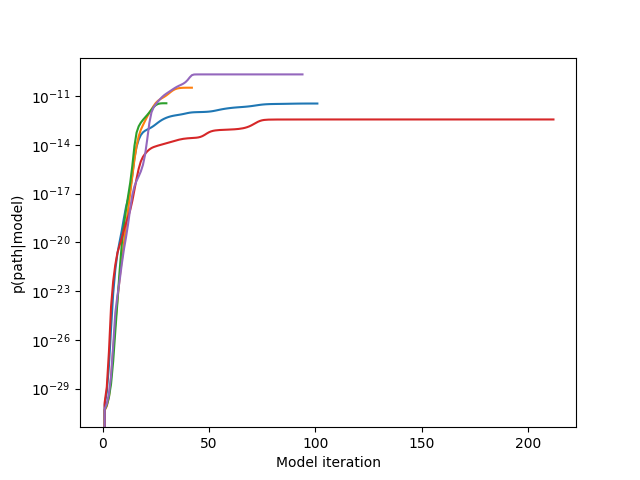
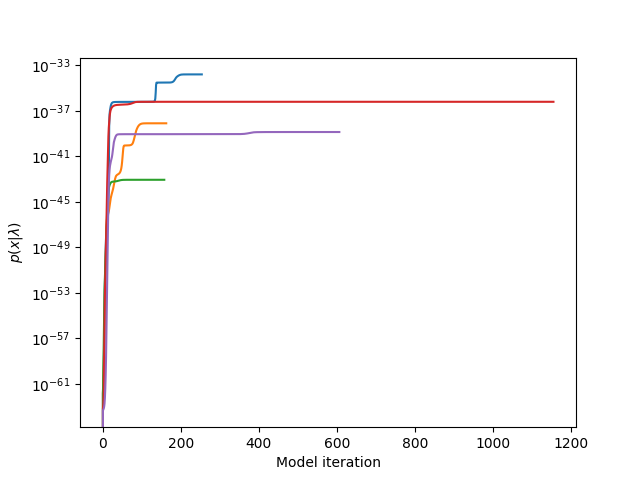
Finisedish EM draft, which includes new graphs

diff --git a/Report/Q1.tex b/Report/Q1.tex
@@ -1,66 +1,72 @@
 \subsection{}
-All data was collected from runs on a Hamilton par7.q node.
-
-Figure [Fig.\ref{fig:scaling}] shows the scaling characteristics of step 4 in terms of the number of bodies. 
-We see from [Fig.\ref{fig:scaling_sub}] that scenarios with over 1000 bodies scale well to Hamilton's 24 cores, whereas models using $<$1000 bodies scale less well. 
-If we assume this is a strong scaling model, following $t(p) = f \cdot t(1) + (1-f)\cdot \frac{t(1)}{p}$, we can calculate constant $f$ for each data point [Fig.\ref{fig:scaling_f}]. We can see scenarios with $>=500$ bodies are modeled well by the strong scaling model as there is a low variance of $f$ estimations, giving evidence that $f$ is a constant. 
-However, the strong scaling model breaks down under $500$ bodies as $f$ is likely not constant. 
-I suspect this breakdown is caused by the overhead for OMP to create and synchronize threads. 
-This overhead is likely a function of the number of threads and could explain the speedup then slowdown for $200$ bodies.
-We also see that $f$ decreases with more bodies. In my implementation some of the calculations with runtime $O(n)$ are done in series (where $n$ is number of bodies); However, all calculations with runtime $O(n^2)$ are done in parallel. Hence we would expect f to decrease as $O(n^2)$ dominates.
 
 \subsection{}
-The EM algorithm iterativley improves a model to fit a sequence of observed states. For a model $\lambda$ and observed sequence $x$ we seek to maximise $p(x|\lambda)$. Model $\lambda = (\pi, m, e)$ where: $\pi$ are the initial probabilities, $m$ are the transition probabilities, and $e$ are the emission probabilities.
+A hidden markov model can be defined as $\lambda = (\pi, m, e)$ where: $\pi$ are the initial probabilities, $m$ are the transition probabilities, and $e$ are the emission probabilities.
+The goal of the Expectation Maximisation algorithm is to calculate a value of $\lambda$ that maximises $p(x|\lambda)$ for a given sequence of observed data $x$. As finding a global maximum is computationally intractable we use the Baum-Welch algorithm which gives us a local maximum. The Baum-Welch algorithm generates $\hat{\lambda}$ from $\lambda$ where $p(x|\hat{\lambda}) \geq p(x|\lambda)$. Iterating this process, where at each step we say $\lambda \gets \hat{\lambda}$, converges to a local optimum.
 
-To calculate $\hat{\lambda}$ we can use some helper functions. $\alpha$ is the forward algorithm.
-\begin{gather}
+To calculate $\hat{\lambda}$ we can use some helper functions as described by L.R. Rabiner \cite{em}. We will use additional notation $N$ ass the number of hidden states, $O_t$ the observation at time (position) $t$ and $T$ as $|O|$.  The first helper function is $\alpha$, which is the forward algorithm.
+\begin{gather*}
     \alpha_1(i) = \pi_i e_i(O_1)\\
-    \alpha_{t+1}(i) = e_j(O_{t+1}) \cdot \sum_{i=1}^N\alpha_t(i)m_{ij} \\
-\end{gather}
+    \alpha_{t+1}(i) = e_j(O_{t+1}) \cdot \sum_{i=1}^N\alpha_t(i)m_{ij}
+\end{gather*}
 
-$\beta$ is the backward algorithm
-\begin{gather}
+The next $\beta$, which is the backward algorithm :
+\begin{gather*}
     \beta_T(i)=1\\
-    \beta_t(i)=\sum_{j=1}^N m_{ij} e_j(O_{t+1}) \beta_{t+1}(j)\\
-\end{gather}
+    \beta_t(i)=\sum_{j=1}^N m_{ij} e_j(O_{t+1}) \beta_{t+1}(j)
+\end{gather*}
 
-$\gamma$ is the probability of being in a state given that we know the hole sequence.
-\begin{gather}
-    \gamma_t(i) = \frac{\alpha_t(i) \beta_t(i)}{\sum_{j=1}^N \alpha_t(j) \beta_t(j)}\\
-\end{gather}
+Then $\gamma$ which is the probability of being in a state at a point in time, given we know which observations precede and succeed the current observation.
+\begin{gather*}
+    \gamma_t(i) = \frac{\alpha_t(i) \beta_t(i)}{\sum_{j=1}^N \alpha_t(j) \beta_t(j)}
+\end{gather*}
 
-$\xi$ is the probability of transitioning from state i to state j given we know the entire sequence.
-\begin{gather}
-    \xi_t(i, j) = \frac{\alpha_t(i) m_{ij} e_j(O_{t+1}) \beta_{t+1}(j)}{\sum_{i=1}^N \sum_{j=1}^N \alpha_t(i) m_{ij} e_j(O_{t+1}) \beta_{t+1}(j)} \\ 
-\end{gather}
+And finally $\xi$, the probability of transitioning from state i to state j given we know all observations preceding i and succeeding j.
+\begin{gather*}
+    \xi_t(i, j) = \frac{\alpha_t(i) m_{ij} e_j(O_{t+1}) \beta_{t+1}(j)}{\sum_{i=1}^N \sum_{j=1}^N \alpha_t(i) m_{ij} e_j(O_{t+1}) \beta_{t+1}(j)}
+\end{gather*}
 
-Using these helper functions we can calculate the new components of $\hat{\lambda}$.
-\begin{gather}
+Using these helper functions we can calculate $\hat{\lambda}=(\hat{\pi}, \hat{m}, \hat{e})$.
+\begin{gather*}
     \hat{\pi}_i = \gamma_1(i)\biggbreak
     \hat{m}_{ij} = \frac{\sum_{t=1}^{T-1} \xi_t(i,j)}{\sum_{t=1}^{T-1} \gamma_t(i)}\biggbreak
     \hat{e}_i(k) \frac{\sum_{\forall t: O_t = k} \gamma_t(i)}{\sum_{t=1}^T \gamma_t(i)}
-\end{gather}
+\end{gather*}
 
-Iterating this process ($\lambda \gets \hat{\lambda}$) will converge on a local maximum for $p(x|\lambda)$.
 
-We can tackle verification of the algorithm with 2 methods: testing helper function, observing expectation maximization. I verified each helper function with unit tests that: verify base cases (if applicable); and verify against known mathmatical identities, primarilly $\sum_{a \in A} p(a) = 1$. The following identites are tested. All free imply that the identiy hold over the indiciees domain, in some cases I test across the whole domain, in others just a sample, depending on what is computationally feasible.
+We can tackle verification of the algorithm using 2 methods: by testing helper function and by observing that the algorithm maximises $p(x|\lambda)$. I verified each helper function with unit tests that: verify base cases (if applicable); and verify against known mathematical identities. Following are a small sample of the 8 identities I test against. NOTE: a free index implies that the identity hold over domain of the index, in some cases I test across the whole domain, in others just a sample, depending on what is computationally feasible.
 
-\begin{gather}
-    \sum_i \alpha_t(i) = 1 \\
+\begin{gather*}
+    %\sum_i \alpha_t(i) = 1 \\ wrong
     \sum_{x \in \Sigma^*} \beta_0(i) = 1\\
     \sum_{i} \gamma_t{i} = 1\\
-    \sum_{i}\sum_{j} \xi_t(i, j)=1\\
+    %\sum_{i}\sum_{j} \xi_t(i, j)=1\\
     \sum_{j} \xi_t(i,j) = \gamma_t(i)\\
-    \sum_i \hat{\pi}_i = 1\\
+    %\sum_i \hat{\pi}_i = 1\\
     \sum_j \hat{m}_ij = 1\\
-    \sum_k \hat{e}_i = 1 \\
-\end{gather}
+    %\sum_k \hat{e}_i = 1 \\
+\end{gather*}
 
-Also we can see that for a an example sequence with a series of random seeds eexpeectation is maximised to seeveeral siffrent local minima. \cite{em}
+
+To validate that the algorithm maximises $p(x|\lambda)$ we can plot $p(x|\lambda)$ against the iteration. Figure \ref{fig:em} shows 2 experiments that both use a fixed $x$ with 5 random initial $\lambda$. We see in Figure \ref{fig:em} that in all 10 runs $p(x|\lambda)$ converges at various local maxima. Experiments using different $x$ and $\lambda$ yield similar results, as you would expect. This provides strong evidence that the algorithm is valid.
+
 \begin{figure}[h!]
     \begin{center}
-    \includegraphics[scale=0.6]{EM.png}
-      \caption{step 1 (blue) step 3 (orange). Change in errors for a 2 body system under extreme conditions (near collision).}
-      \label{fig:convergence}
+    \begin{subfigure}{.5\textwidth}
+        \begin{center}
+    \includegraphics[width=.95\textwidth]{EM2.png}
+    \caption{}
+    \label{fig:em1}
+    \end{center}
+    \end{subfigure}%
+    \begin{subfigure}{.5\textwidth}
+        \begin{center}
+        \includegraphics[width=.95\textwidth]{EM.png}
+        \caption{}
+        \label{fig:em2}
+    \end{center}
+        \end{subfigure}%
+        \caption{Convergence of $p(x|\lambda)$ to local maxima for 2 values of $x$ each using 5 randomly initialised $\lambda$.}
+    \label{fig:em}
     \end{center}
     \end{figure}

diff --git a/Code/EM.py b/Code/EM.py
@@ -182,14 +182,15 @@ def probOfObservations(model, observedSeq):
     return p
 
 if __name__ =="__main__":
-    observedSeq = [0,0,0,1,1,2,3,1,1,1,1,0,3,3,3,3,3,3,3,1,1,1,1,1,1,0,0,0,0,0,1,0,1,0,1,0,1,0,1,0,0,1,1,1,1,1,2,1,2,1,2,1,2,1,2,1,2,0,0,0,1,1,2,3,1,1,1,1,0,3,3,3,3,3,3,3,1,1,1,1,1,1,0,0,0,0,0,1,0,1,0,1,0,1,0,1,0,0,1,1,1,1,1,2,1,2,1,2,1,2,1,2,1,2,0,0,0,1]
-    hidden = 50
+    observedSeq = [0,0,0,1,1,2,3,1,1,1,1,0,3,3,3,3,3,3,3,1,1,1,1,1,1,0,0,0,0,0,1,0,1,0,1,0,1,0,1,0,0,1,1,1,1,1,2,1,2,1,2,1,2,1,2,1,2,0,0,0,1,1,2,1,1,1,1,1,1,1,1,1]
+    #observedSeq = [0,0,0,1,1,2,3,1,1,1,1,0,3,3,3,3,3]
+    hidden = 6
     observeable = 5
 
     for i in range(5):
         _, _, _, probs = estimateModel(observedSeq, hidden, observeable, verbose=True) 
         plt.plot(probs, color='C%d'%i)
-    plt.ylabel('p(path|model)')
+    plt.ylabel('$p(x|\lambda)$')
     plt.yscale('log')
 
     plt.xlabel('Model iteration')
